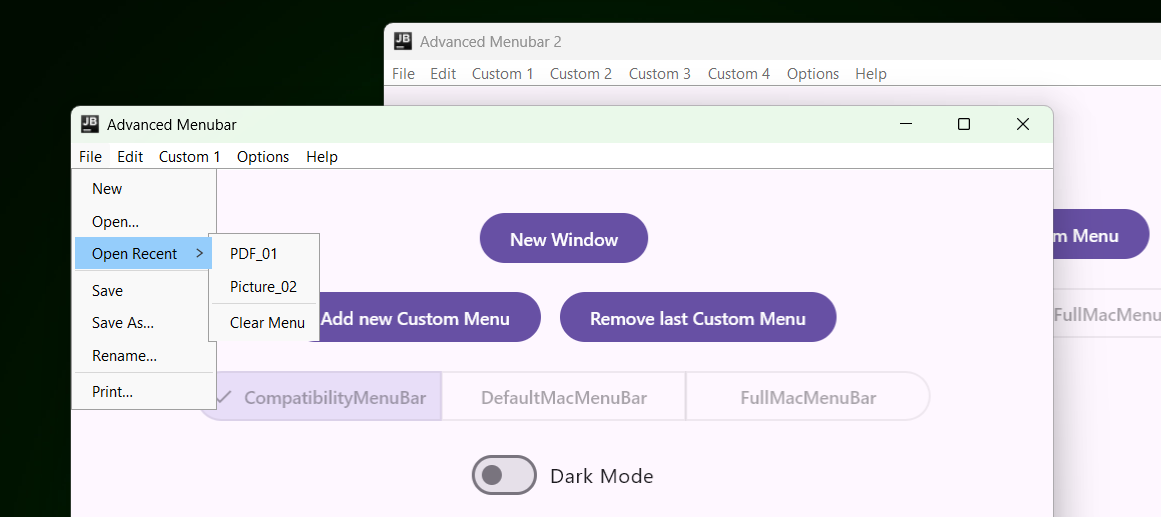
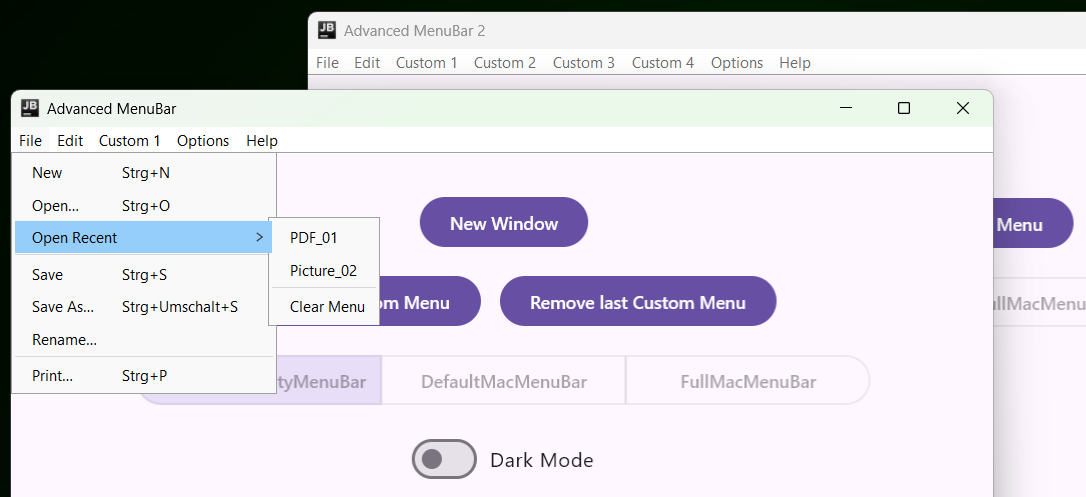
Updated SwingMenuBar.kt

diff --git a/advanced-menubar-awt/src/main/kotlin/dev/hansholz/advancedmenubar/SwingMenuBar.kt b/advanced-menubar-awt/src/main/kotlin/dev/hansholz/advancedmenubar/SwingMenuBar.kt
@@ -21,10 +21,18 @@ import dev.hansholz.advancedmenubar.MenuModel.SystemItem
 import dev.hansholz.advancedmenubar.MenuModel.TopMenu
 import dev.hansholz.advancedmenubar.MenuModel.ViewStd
 import dev.hansholz.advancedmenubar.MenuModel.WindowStd
+import java.awt.Color
+import java.awt.Component
+import java.awt.Dimension
 import java.awt.Font
 import java.awt.Toolkit
+import java.awt.Graphics
+import java.awt.Graphics2D
+import java.awt.Insets
+import java.awt.RenderingHints
 import java.awt.event.InputEvent
 import java.awt.event.KeyEvent
+import java.awt.geom.Path2D
 import java.io.ByteArrayInputStream
 import java.util.WeakHashMap
 import javax.imageio.ImageIO
@@ -32,12 +40,17 @@ import javax.swing.BorderFactory
 import javax.swing.Icon
 import javax.swing.ImageIcon
 import javax.swing.JCheckBoxMenuItem
+import javax.swing.JComponent
 import javax.swing.JLabel
 import javax.swing.JMenu
 import javax.swing.JMenuBar
 import javax.swing.JMenuItem
+import javax.swing.JPopupMenu
 import javax.swing.KeyStroke
 import javax.swing.SwingUtilities
+import javax.swing.UIManager
+import javax.swing.plaf.basic.BasicSeparatorUI
+import kotlin.collections.forEach
 
 /**
  * Renders the Advanced MenuBar DSL as a Swing [JMenuBar].
@@ -59,6 +72,7 @@ fun FrameWindowScope.SwingMenuBar(
 @Composable
 internal fun FrameWindowScope.SwingMenuBarImplementation(model: List<TopMenu>) {
     DisposableEffect(Unit) {
+        UIManager.put("Menu.arrowIcon", SmoothArrowIcon())
         onDispose {
             SwingUtilities.invokeLater {
                 window.jMenuBar = null
@@ -143,6 +157,7 @@ private fun JMenu.addSwingElements(elements: List<MenuElement>) {
                 add(
                     JMenu(el.title).apply {
                         isEnabled = el.enabled
+                        margin = Insets(2, -30, 2, 5)
                         el.icon?.toSwingIcon()?.let { icon = it }
                         addSwingElements(el.children)
                     },
@@ -158,7 +173,7 @@ private fun JMenu.addSwingElements(elements: List<MenuElement>) {
                 add(label)
             }
 
-            is Separator -> addSeparator()
+            is Separator -> add(JPopupMenu.Separator().apply { ui = FullWidthSeparatorUI() })
 
             is SystemItem.About -> add(swingActionItem(el.title, el.enabled, icon = el.icon, onClick = el.onClick))
             is SystemItem.Settings -> add(swingActionItem(el.title, el.enabled, icon = el.icon, onClick = el.onClick))
@@ -174,7 +189,7 @@ private fun JMenu.addSwingElements(elements: List<MenuElement>) {
                 add(
                     JMenu(el.title).apply {
                         isEnabled = el.enabled
-                        el.icon?.toSwingIcon()?.let { icon = it }
+                        el.icon?.toSwingIcon()?.let { icon = it } ?: run { margin = Insets(2, -30, 2, 5) }
                         addSwingElements(el.children)
                     },
                 )
@@ -284,7 +299,7 @@ private fun swingActionItem(
     JMenuItem(title).apply {
         isEnabled = enabled && onClick != null
         shortcut?.toKeyStroke()?.let { accelerator = it }
-        icon?.toSwingIcon()?.let { this.icon = it }
+        icon?.toSwingIcon()?.let { this.icon = it } ?: run { margin = Insets(2, -30, 2, 5) }
         toolTipText = tooltip
         addActionListener { onClick?.invoke() }
     }
@@ -503,3 +518,49 @@ private fun Key.toAwtKeyCode(): Int? =
 
         else -> keyCode.takeIf { it != 0L }?.toInt()
     }
+
+class SmoothArrowIcon(
+    private val width: Int = 4,
+    private val height: Int = 6,
+    private val leftPad: Int = 20,
+    private val color: Color = Color(60, 60, 60)
+) : Icon {
+
+    override fun paintIcon(c: Component, g: Graphics, x: Int, y: Int) {
+        val g2 = g.create() as Graphics2D
+        try {
+            g2.setRenderingHint(RenderingHints.KEY_ANTIALIASING, RenderingHints.VALUE_ANTIALIAS_ON)
+            g2.setRenderingHint(RenderingHints.KEY_STROKE_CONTROL, RenderingHints.VALUE_STROKE_PURE)
+            g2.color = color
+
+            val ax = x + leftPad
+            val ay = y + (iconHeight - height) / 2
+
+            val path = Path2D.Float().apply {
+                moveTo(ax.toDouble(), ay.toDouble())
+                lineTo((ax + width).toDouble(), (ay + height / 2).toDouble())
+                lineTo(ax.toDouble(), (ay + height).toDouble())
+            }
+            g2.draw(path)
+        } finally {
+            g2.dispose()
+        }
+    }
+
+    override fun getIconWidth(): Int = width + leftPad
+    override fun getIconHeight(): Int = height + 6
+}
+
+class FullWidthSeparatorUI : BasicSeparatorUI() {
+
+    override fun paint(g: Graphics, c: JComponent) {
+        val width = c.width
+        val height = c.height
+        g.color = Color(215, 215, 215)
+        g.drawLine(0, height / 2, width, height / 2)
+    }
+
+    override fun getPreferredSize(c: JComponent): Dimension {
+        return Dimension(0, 3)
+    }
+}
